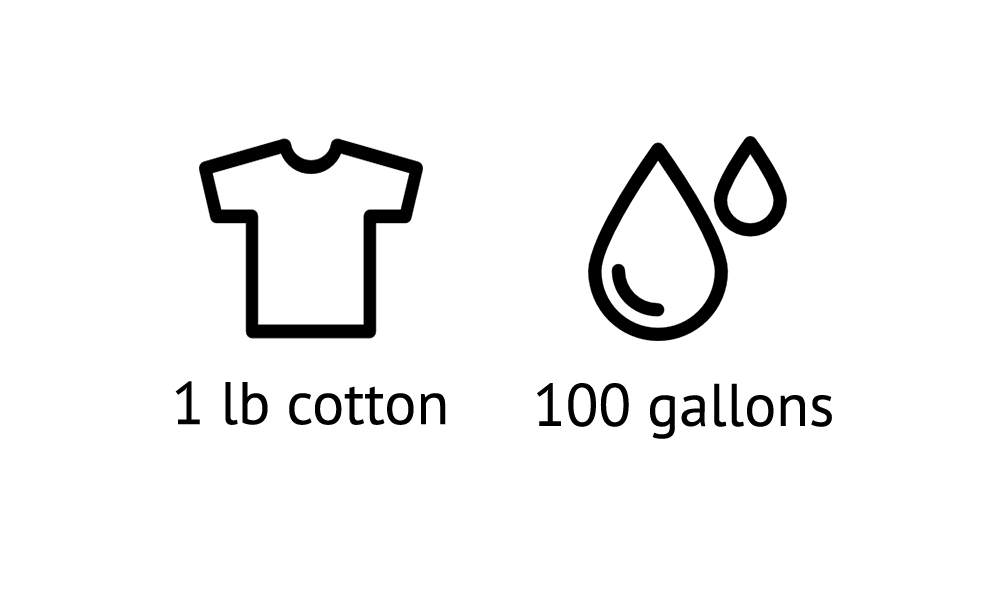
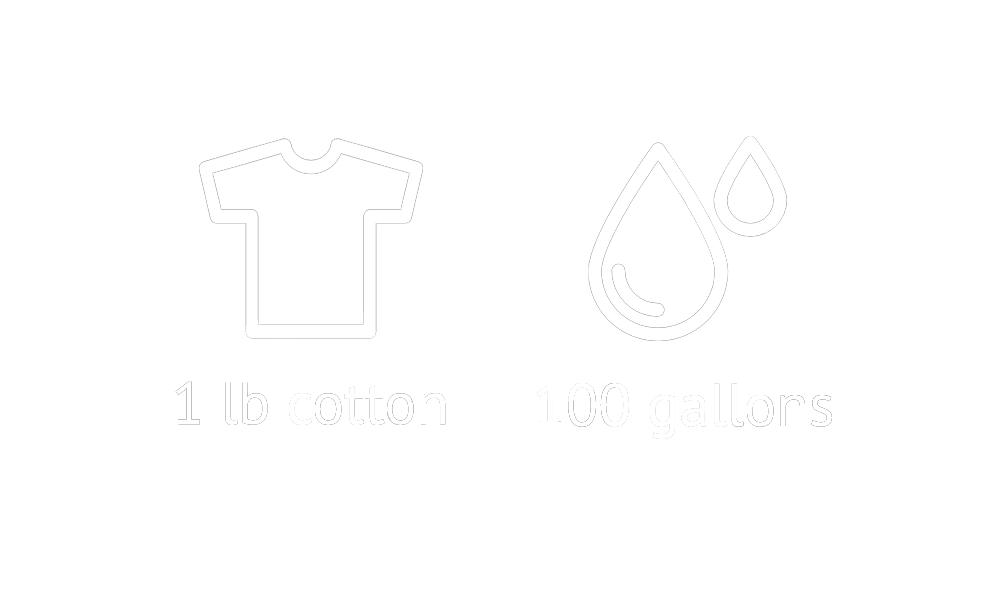
final touches

diff --git a/implications.html b/implications.html
@@ -103,9 +103,6 @@
 				</form>
 			</div>
 
-<<<<<<< HEAD
-					<h2 align="center">Indirect Water Consumption</h2>
-=======
 			<script>
                 function showDiv(){
                     document.getElementById('water-calculator-comparison').style.display = "block";
@@ -128,70 +125,56 @@
 					</div>
 				</div>
 			</div>
-
->>>>>>> 6d5cd0824d5b0a3f9f85bb3990646d3f07ace4f9
-					<p>However, this is just your measurable direct water consumption. You also consume water in countless other ways. For example:</p>
-					<!--<div class="row">-->
-						<!--<div class="col-md-6 iconInfo"><img src="images/waterPhone.png" height="400" width="700" alt="" /></div>-->
-						<!--<div class="col-md-6 iconInfo"><img src="images/waterBeef.png" height="400" width="700" alt="" /></div>-->
-					<!--</div>-->
-					<!--<div class="row">-->
-						<!--<p class="col-md-6 fact">The average American household uses 120,000 - 300,000 gallons of water's worth of electricity per year (Boston gets electricity from hydropower).</p>-->
-						<!--<p class="col-md-6 fact">Producing food is incredibly water intensive, requiring 11 gallons to produce 1 slice of bread and 1,799 gallons to produce 1lb of beef.</p>-->
-					<!--</div>-->
-					<!--<div class="row">-->
-						<!--<div class="col-md-6 iconInfo"><img src="images/waterCotton.png" height="400" width="700" alt="" border="2"/></div>-->
-						<!--<div class="col-md-6 iconInfo"><img src="images/waterPool.png" height="400" width="700" alt="" /></div>-->
-						<!--<div class="row">-->
-							<!--<p class="col-md-6 fact">It takes about 100 gallons of water to produce 1lb of cotton material, which is representative of other fabrics and furniture.</p>-->
-							<!--<p class="col-md-6 fact">One olympic-sized pool holds enough water to hydrate over 3,600 people for an entire year.</p>-->
-						<!--</div>-->
+		</section>
 
 				<!-- icons! -->
-				<section class="wrapper alt style5">
-					<section class="spotlight">
-						<div class="image"><img src="images/waterPhone.png" alt="" /></div><div class="content">
-						<h2>Electricity</h2>
-						<p>The average American household uses 120,000 - 300,000 gallons of water's worth of electricity per year (Boston gets electricity from hydropower).</p>
-					</div>
-					</section>
-					<section class="spotlight">
-						<div class="image"><img src="images/waterBeef.png" alt="" /></div><div class="content">
-						<h2>Food</h2>
-						<p>Producing food is incredibly water intensive, requiring 11 gallons to produce 1 slice of bread and 1,799 gallons to produce 1lb of beef.</p>
-					</div>
-					</section>
-					<section class="spotlight">
-						<div class="image"><img src="images/waterCotton.png" alt="" /></div><div class="content">
-						<h2>Clothing</h2>
-						<p>It takes about 100 gallons of water to produce 1lb of cotton material, which is representative of other fabrics and furniture.</p>
-					</div>
-					</section>
-					<section class="spotlight">
-						<div class="image"><img src="images/waterPool.png" alt="" /></div><div class="content">
-						<h2>Recreation</h2>
-						<p>One olympic-sized pool holds enough water to hydrate over 3,600 people for an entire year.</p>
-					</div>
-					</section>
-				</section>
-				</section>
+		<section id="three" class="wrapper style3 special">
+			<div class="inner">
+				<header class="major">
+					<h2>Indirect Water Consumption</h2>
+					<p>However, this is just your measurable direct water consumption. You also consume water in countless other ways.</br>For example:</p>
+				</header>
+			<section class="spotlight">
+				<div class="image"><img src="images/waterPhone.png" alt="" /></div><div class="content">
+				<h2>Electricity</h2>
+				<p>The average American household uses 120,000 - 300,000 gallons of water's worth of electricity per year (Boston gets electricity from hydropower).</p>
+			</div>
+			</section>
+			<section class="spotlight">
+				<div class="image"><img src="images/waterBeef.png" alt="" /></div><div class="content">
+				<h2>Food</h2>
+				<p>Producing food is incredibly water intensive, requiring 11 gallons to produce 1 slice of bread and 1,799 gallons to produce 1lb of beef.</p>
+			</div>
+			</section>
+			<section class="spotlight">
+				<div class="image"><img src="images/waterCotton.png" alt="" /></div><div class="content">
+				<h2>Clothing</h2>
+				<p>It takes about 100 gallons of water to produce 1lb of cotton material, which is representative of other fabrics and furniture.</p>
+			</div>
+			</section>
+			<section class="spotlight">
+				<div class="image"><img src="images/waterPool.png" alt="" /></div><div class="content">
+				<h2>Recreation</h2>
+				<p>One olympic-sized pool holds enough water to hydrate over 3,600 people for an entire year.</p>
+			</div>
+			</section>
+		</section>
 
 				<!-- Second Bar Chart -->
-				<section class="wrapper style2" id="secondbar"></br>
+				<section class="wrapper style5" id="secondbar"></br>
 					<div class="row">
-						<h2 class="section-title">Water Consumption in the United States</h2>
-				<p>When we account for both direct and virtual water consumption, experts estimate <b>the average American consumes 2,200 gallons of water per day</b>. This is how water consumption one person in the United States consumes per day compared to the water consumption per capita per day in other countries in 2013:</p>
-				<!-- <div class="row"> -->
+						<h2 class="section-title" style="text-align:center">Water Consumption in the United States</h2>
+						<p>When we account for both direct and virtual water consumption, experts estimate <b>the average American consumes 2,200 gallons of water per day</b>. This is how water consumption one person in the United States consumes per day compared to the water consumption per capita per day in other countries in 2013:</p>
 							<div align="center" id="water-chart2"></div>
 							<p>That means that the amount of water one American uses in one day is equivalent to the water one person from the United Kingdom, India, China, Bangladesh, Ghana, Burkina Faso, Niger, Angola, Cambodia, Haiti, Uganda, and Mozambique uses in one day, <b>combined</b>:</p>
-				<div id="water-comparison-US"></div>
-				<div id="water-comparison-countries1"></div>
-				<!-- </div> -->
-			</div>
+						<div id="water-comparison-US"></div>
+						<div id="water-comparison-countries1"></div>
+					</div>
 				</section>
-				<section class="wrapper style5" id="infotext">
+
+		<section class="wrapper style1" id="infotext">
 			<div class="row">
-				<h2> Water Shortage Crisis</h2>
+				<h2 style="text-align:center"> Water Shortage Crisis</h2>
 				<p>Not everyone is as privileged in being able to access as much water. For many people, in many parts of the world, water shortages are serious, life-threatening problems. From lack of water to water contamination, this crisis affects millions already. Let's see how:</p>
 			</div>
 		</section>
@@ -221,7 +204,7 @@
 		<!-- Choropleth + Bar Graph -->
 		<section id="linkedvis1" class="wrapper style5">
 			<div class="row">
-				<h2>Projected Water Stress</h2>
+				<h2 align="center">Projected Water Stress</h2>
 			</div>
 			<div class="row">
 				<p>In light of these issues, water stress is projected to increase throughout the foreseeable future. The following map shows how water stress will affect different countries worldwide. Click on countries to see how their water usages compare in the bar chart on the right:</p>
@@ -291,7 +274,7 @@
 		<!-- Tree -->
 		<section id="treesection" class="wrapper style5">
 			<div class="row">
-				<h2> Specific Solutions</h2>
+				<h2 align="center"> Specific Solutions</h2>
 				<p>In the end, however, the right solution depends on your individual circumstance. Select the path below that best applies to you in order to see ways you can help:</p>
 				<div id="tree-diagram"></div>
 			</div>

diff --git a/assets/js/country-comparison.js b/assets/js/country-comparison.js
@@ -53,21 +53,18 @@ svgCalculator2.append("text")
     .attr("x", -230)
     .attr("y", -30)
     .attr("transform", "rotate(-90)")
-    .attr("fill", "white")
     .text("% US consumption");
 
 svgCalculator2.append("text")
     .attr("class", "label")
     .attr("x", width2 / 2 - 25)
     .attr("y", height2 + 35)
-    .attr("fill", "white")
     .text("Country");
 
 svgCalculator2.append("text")
     .attr("class", "title")
     .attr("x", 200)
     .attr("y", -20)
-    .attr("fill", "white")
     .text("Countries' Percentage of United States' Water Consumptions Per Capita Per Day");
 
 var bars2 = svgCalculator2.selectAll(".bar2")
@@ -162,8 +159,7 @@ var treeMapNodeUS = divUS.datum(root).selectAll(".treeMapNode")
 .style("width", (d) => Math.max(0, d.x1 - d.x0 - 1) + "px")
 .style("height", (d) => Math.max(0, d.y1 - d.y0  - 1) + "px")
 .style("background", (d) => color(d.parent.data.name))
-.text((d) => d.data.name + ": " + d.data.size + "%")
-.style("fill", "black");
+.text((d) => d.data.name + ": " + d.data.size + "%");
 
 
 // TREE MAP COUNTRIES1

diff --git a/assets/css/main.css b/assets/css/main.css
@@ -3863,7 +3863,7 @@ div.tooltip {
 }
 
 .treeMapNode {
-	border: solid 1px black;
+	/*border: solid 1px black;*/
 	font: 10px sans-serif;
 	line-height: 12px;
 	overflow: hidden;
